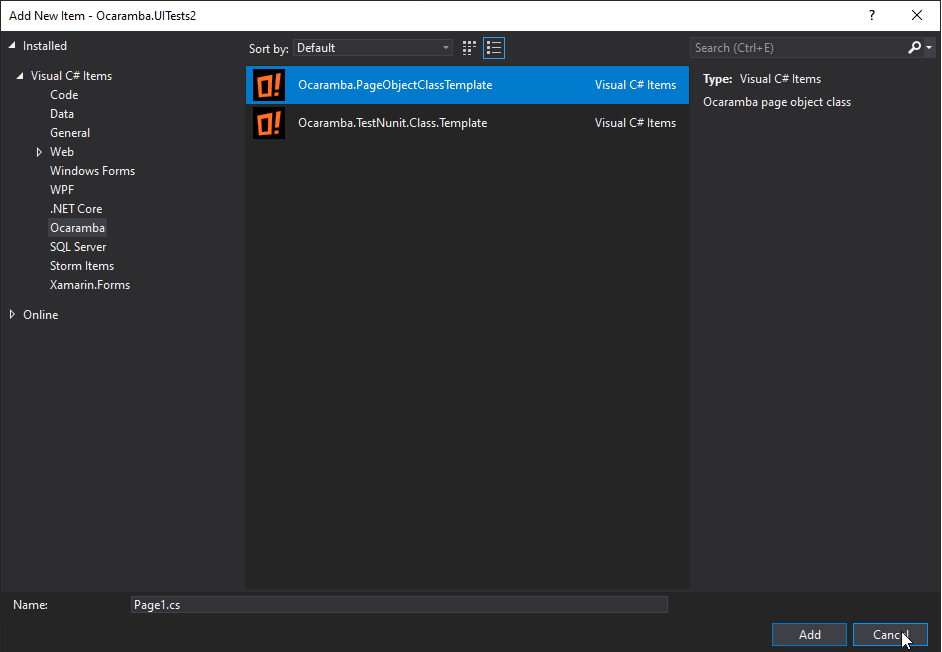
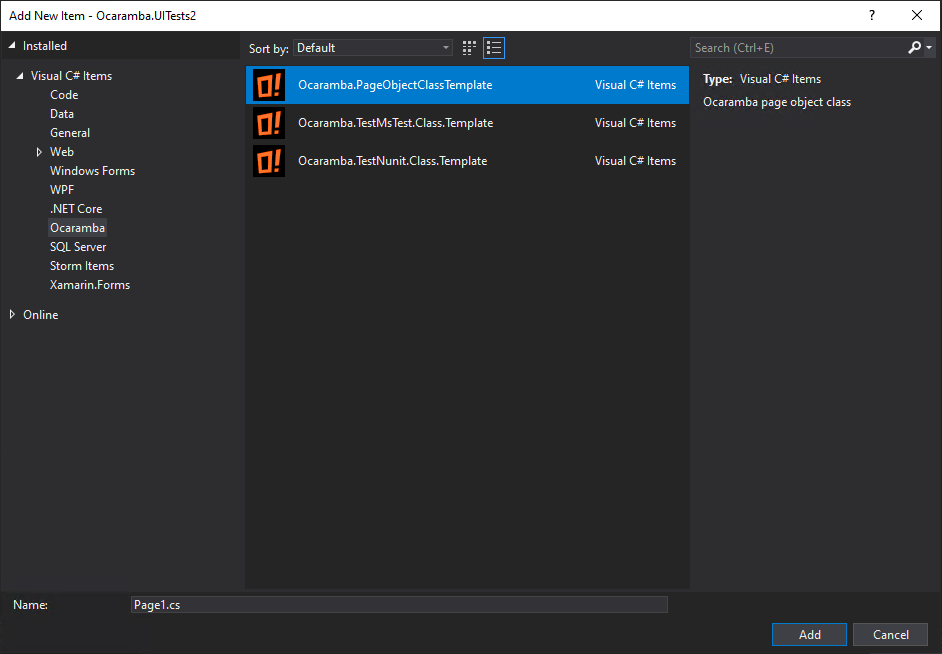
Added MsTest class template

diff --git a/Ocaramba.TestMsTest.Class/Properties/AssemblyInfo.cs b/Ocaramba.TestMsTest.Class/Properties/AssemblyInfo.cs
@@ -1,0 +1,36 @@
+using System.Reflection;
+using System.Runtime.CompilerServices;
+using System.Runtime.InteropServices;
+
+// General Information about an assembly is controlled through the following 
+// set of attributes. Change these attribute values to modify the information
+// associated with an assembly.
+[assembly: AssemblyTitle("Ocaramba.TestMsTest.Class")]
+[assembly: AssemblyDescription("")]
+[assembly: AssemblyConfiguration("")]
+[assembly: AssemblyCompany("Jakub Raczek")]
+[assembly: AssemblyProduct("Ocaramba.TestMsTest.Class")]
+[assembly: AssemblyCopyright("Copyright © Jakub Raczek 2019")]
+[assembly: AssemblyTrademark("")]
+[assembly: AssemblyCulture("")]
+
+// Setting ComVisible to false makes the types in this assembly not visible 
+// to COM components.  If you need to access a type in this assembly from 
+// COM, set the ComVisible attribute to true on that type.
+[assembly: ComVisible(false)]
+
+// The following GUID is for the ID of the typelib if this project is exposed to COM
+[assembly: Guid("dad18c42-122c-4ac7-a6f4-88fef1dba1a6")]
+
+// Version information for an assembly consists of the following four values:
+//
+//      Major Version
+//      Minor Version 
+//      Build Number
+//      Revision
+//
+// You can specify all the values or you can default the Build and Revision Numbers 
+// by using the '*' as shown below:
+// [assembly: AssemblyVersion("1.0.*")]
+[assembly: AssemblyVersion("1.0.0.0")]
+[assembly: AssemblyFileVersion("1.0.0.0")]

diff --git a/Ocaramba.ProjectExample.MsTest.NetCore/Tests/HerokuappTestsMsTest.cs b/Ocaramba.ProjectExample.MsTest.NetCore/Tests/HerokuappTestsMsTest.cs
@@ -1,15 +1,14 @@
-namespace $safeprojectname$.Tests
+// MsTest tests
+// See documentation : https://github.com/ObjectivityLtd/Ocaramba 
+
+namespace $safeprojectname$
 {
-    using System.Diagnostics.CodeAnalysis;
+
     using Microsoft.VisualStudio.TestTools.UnitTesting;
     using PageObjects;
 
-    /// <summary>
-    /// Tests to verify checkboxes tick and Untick.
-    /// </summary>
     [TestClass]
-    [SuppressMessage("StyleCop.CSharp.DocumentationRules", "SA1650:ElementDocumentationMustBeSpelledCorrectly", Justification = "Reviewed. Suppression is OK here.")]
-    public class HerokuappTestsMsTest : ProjectTestBase
+    public class $safeitemrootname$ : ProjectTestBase
     {
         [TestMethod]
         public void TickCheckboxTest()

diff --git a/Ocaramba.ProjectExample.MsTest.NetFramework/Tests/HerokuappTestsMsTest.cs b/Ocaramba.ProjectExample.MsTest.NetFramework/Tests/HerokuappTestsMsTest.cs
@@ -1,6 +1,5 @@
-namespace $safeprojectname$.Tests
+namespace $safeprojectname$
 {
-    using System.Diagnostics.CodeAnalysis;
     using Microsoft.VisualStudio.TestTools.UnitTesting;
     using PageObjects;
 
@@ -8,8 +7,7 @@
     /// Tests to verify checkboxes tick and Untick.
     /// </summary>
     [TestClass]
-    [SuppressMessage("StyleCop.CSharp.DocumentationRules", "SA1650:ElementDocumentationMustBeSpelledCorrectly", Justification = "Reviewed. Suppression is OK here.")]
-    public class HerokuappTestsMsTest : ProjectTestBase
+    public class $safeitemrootname$ : ProjectTestBase
     {
         [TestMethod]
         public void TickCheckboxTest()

diff --git a/Ocaramba.TestMsTest.Class/Class.cs b/Ocaramba.TestMsTest.Class/Class.cs
@@ -1,15 +1,14 @@
-// NUnit 3 tests
+// MsTest tests
 // See documentation : https://github.com/ObjectivityLtd/Ocaramba 
-
-using NUnit.Framework;
 
 namespace $rootnamespace$
 {
-    [TestFixture]
-    [Parallelizable(ParallelScope.Fixtures)]
-    public class $safeitemrootname$ : ProjectTestBase
-    {
-        [Test]
+using Microsoft.VisualStudio.TestTools.UnitTesting;
+
+[TestClass]
+public class $safeitemrootname$ : ProjectTestBase
+{
+        [TestMethod]
         public void Test()
         {
             // TODO: Add your test code here

diff --git a/Ocaramba.ProjectExample.MsTest.NetCore/PageObjects/InternetPage.cs b/Ocaramba.ProjectExample.MsTest.NetCore/PageObjects/InternetPage.cs
@@ -3,10 +3,11 @@
     using System;
     using System.Globalization;
     using NLog;
-    using Extensions;
-    using Types;
+    using Ocaramba;
+    using Ocaramba.Extensions;
+    using Ocaramba.Types;
 
-    public class InternetPage : ProjectPageBase
+public class InternetPage : ProjectPageBase
     {
         private static readonly NLog.Logger Logger = LogManager.GetCurrentClassLogger();
 

diff --git a/Ocaramba.ProjectExample.MsTest.NetFramework/PageObjects/InternetPage.cs b/Ocaramba.ProjectExample.MsTest.NetFramework/PageObjects/InternetPage.cs
@@ -3,10 +3,11 @@
     using System;
     using System.Globalization;
     using NLog;
-    using Extensions;
-    using Types;
+    using Ocaramba;
+    using Ocaramba.Extensions;
+    using Ocaramba.Types;
 
-    public class InternetPage : ProjectPageBase
+public class InternetPage : ProjectPageBase
     {
         private static readonly NLog.Logger Logger = LogManager.GetCurrentClassLogger();
 

diff --git a/Ocaramba.ProjectExample.NUnit.NetFramework/Tests/HerokuappTestsNUnit.cs b/Ocaramba.ProjectExample.NUnit.NetFramework/Tests/HerokuappTestsNUnit.cs
@@ -4,11 +4,11 @@
 using NUnit.Framework;
 using $safeprojectname$.PageObjects;
 
-namespace $safeprojectname$.Tests
+namespace $safeprojectname$
 {
     [TestFixture]
     [Parallelizable(ParallelScope.Fixtures)]
-    public class HerokuappTestsNUnit : ProjectTestBase
+    public class $safeitemrootname$ : ProjectTestBase
     {
         [Test]
         public void BasicAuthTest()

diff --git a/Ocaramba.ProjectExample.MsTest.NetFramework/ProjectTestBase.cs b/Ocaramba.ProjectExample.MsTest.NetFramework/ProjectTestBase.cs
@@ -2,7 +2,8 @@
 {
     using System;
     using Microsoft.VisualStudio.TestTools.UnitTesting;
-    using Logger;
+    using Ocaramba;
+    using Ocaramba.Logger;
 
     /// <summary>
     /// The base class for all tests <see href="https://github.com/ObjectivityLtd/Ocaramba/wiki/ProjectTestBase-class">More details on wiki</see>

diff --git a/Ocaramba.ProjectExample.MsTest.NetCore/ProjectPageBase.cs b/Ocaramba.ProjectExample.MsTest.NetCore/ProjectPageBase.cs
@@ -1,7 +1,8 @@
-using OpenQA.Selenium;
-
-namespace $safeprojectname$
+namespace $safeprojectname$
 {
+    using Ocaramba;
+    using OpenQA.Selenium;
+
     public partial class ProjectPageBase
     {
         public ProjectPageBase(DriverContext driverContext)

diff --git a/Ocaramba.ProjectExample.MsTest.NetFramework/ProjectPageBase.cs b/Ocaramba.ProjectExample.MsTest.NetFramework/ProjectPageBase.cs
@@ -1,6 +1,8 @@
 namespace $safeprojectname$
 {
+    using Ocaramba;
     using OpenQA.Selenium;
+
     public partial class ProjectPageBase
     {
         public ProjectPageBase(DriverContext driverContext)

diff --git a/Ocaramba.ProjectExample.NUnit.NetCore/Tests/HerokuappTestsNUnit.cs b/Ocaramba.ProjectExample.NUnit.NetCore/Tests/HerokuappTestsNUnit.cs
@@ -4,7 +4,7 @@
 using NUnit.Framework;
 using $safeprojectname$.PageObjects;
 
-namespace $safeprojectname$.Tests
+namespace $safeprojectname$
 {
     [TestFixture]
     [Parallelizable(ParallelScope.Fixtures)]

diff --git a/Ocaramba.PageObjectClassTemplate/Class.cs b/Ocaramba.PageObjectClassTemplate/Class.cs
@@ -1,6 +1,7 @@
 using System;
 using System.Globalization;
 using NLog;
+using Ocaramba;
 using Ocaramba.Extensions;
 using Ocaramba.Types;
 
